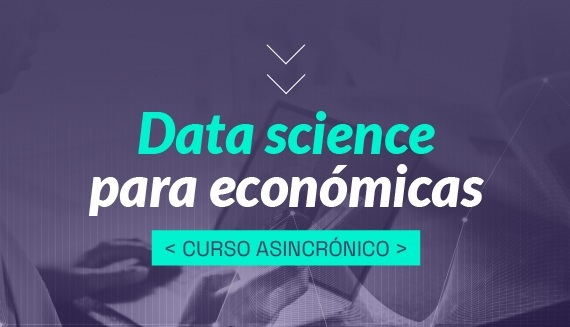
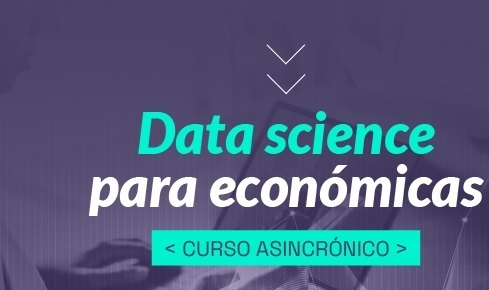
carrusel de promoción y modificacion del home de cada curso

diff --git a/cursos/CursoDatascience.html b/cursos/CursoDatascience.html
@@ -17,10 +17,10 @@
     
     <!-- Navegación -->
     <nav class="navbar navbar-expand-lg navbar-dark bg-dark">
-        <a class="navbar-brand" href="#">Academia CILSA</a>
+        <!-- <a class="navbar-brand" href="#">Academia CILSA</a>
         <button class="navbar-toggler" type="button" data-toggle="collapse" data-target="#navbarNav" aria-controls="navbarNav" aria-expanded="false" aria-label="Toggle navigation">
             <span class="navbar-toggler-icon"></span>
-        </button>
+        </button> -->
         <div class="collapse navbar-collapse" id="navbarNav">
             <ul class="navbar-nav ml-auto">
                 <li class="nav-item active">
@@ -38,7 +38,7 @@
 
             <div class="col-md-8">    
                 <!-- Imagen del curso -->
-                <img src="/imagenes/Datascience.jpg" class="img-fluid" alt="curso de Datascience">
+                <img src="/imagenes/data.png" class="img-fluid" alt="curso de Datascience">
                 
                 <!-- Profesores -->
                 <h3 class="margin-h3">Profesores</h3>

diff --git a/cursos/AnalisisDeDatosEnPowerBI.html b/cursos/AnalisisDeDatosEnPowerBI.html
@@ -17,14 +17,14 @@
     
     <!-- Navegación -->
     <nav class="navbar navbar-expand-lg navbar-dark bg-dark">
-        <a class="navbar-brand" href="#">Academia CILSA</a>
+        <!-- <a class="navbar-brand" href="#">Academia CILSA</a>
         <button class="navbar-toggler" type="button" data-toggle="collapse" data-target="#navbarNav" aria-controls="navbarNav" aria-expanded="false" aria-label="Toggle navigation">
             <span class="navbar-toggler-icon"></span>
-        </button>
+        </button> -->
         <div class="collapse navbar-collapse" id="navbarNav">
             <ul class="navbar-nav ml-auto">
                 <li class="nav-item active">
-                    <a class="nav-link" href="index.html">Home</a>
+                    <a class="nav-link" href="/index.html">Home</a>
                 </li>
             </ul>
         </div>

diff --git a/cursos/CursoAutomatizacionExcelConPython.html b/cursos/CursoAutomatizacionExcelConPython.html
@@ -17,14 +17,14 @@
     
     <!-- Navegación -->
     <nav class="navbar navbar-expand-lg navbar-dark bg-dark">
-        <a class="navbar-brand" href="#">Academia CILSA</a>
+        <!-- <a class="navbar-brand" href="#">Academia CILSA</a>
         <button class="navbar-toggler" type="button" data-toggle="collapse" data-target="#navbarNav" aria-controls="navbarNav" aria-expanded="false" aria-label="Toggle navigation">
             <span class="navbar-toggler-icon"></span>
-        </button>
+        </button> -->
         <div class="collapse navbar-collapse" id="navbarNav">
             <ul class="navbar-nav ml-auto">
                 <li class="nav-item active">
-                    <a class="nav-link" href="index.html">Home</a>
+                    <a class="nav-link" href="/index.html">Home</a>
                 </li>
             </ul>
         </div>

diff --git a/cursos/detalleCursoExcel.html b/cursos/detalleCursoExcel.html
@@ -17,10 +17,10 @@
     
     <!-- Navegación -->
     <nav class="navbar navbar-expand-lg navbar-dark bg-dark">
-        <a class="navbar-brand" href="#">Academia CILSA</a>
-        <button class="navbar-toggler" type="button" data-toggle="collapse" data-target="#navbarNav" aria-controls="navbarNav" aria-expanded="false" aria-label="Toggle navigation">
+        <!-- <a class="navbar-brand" href="#">Academia CILSA</a>
+        <!-- <button class="navbar-toggler" type="button" data-toggle="collapse" data-target="#navbarNav" aria-controls="navbarNav" aria-expanded="false" aria-label="Toggle navigation">
             <span class="navbar-toggler-icon"></span>
-        </button>
+        </button> --> -->
         <div class="collapse navbar-collapse" id="navbarNav">
             <ul class="navbar-nav ml-auto">
                 <li class="nav-item active">

diff --git a/index.html b/index.html
@@ -175,7 +175,7 @@
                 </div>
                 <div class="carousel-item">
                     <div class="card">
-                        <img src="imagenes/Datascience.jpg" class="card-img-top img-fluid" alt="Curso de Datascience" style="height: 800px; object-fit: cover;">
+                        <img src="imagenes/data.png" class="card-img-top img-fluid carrusel-img" alt="Curso de Datascience">
                         <div class="card-body">
                             <h5 class="card-title card-title-sombra">Utilizarás herramientas avanzadas para crear informes interactivos y tomar decisiones basadas en datos efectivos.</h5>
                             <a href="cursos/CursoDatascience.html" class="btn btn-primary w-100">Ver más</a>

diff --git a/cursos/CursoDigitalManageryScrum.html b/cursos/CursoDigitalManageryScrum.html
@@ -17,10 +17,10 @@
     
     <!-- Navegación -->
     <nav class="navbar navbar-expand-lg navbar-dark bg-dark">
-        <a class="navbar-brand" href="#">Academia CILSA</a>
+        <!-- <a class="navbar-brand" href="#">Academia CILSA</a>
         <button class="navbar-toggler" type="button" data-toggle="collapse" data-target="#navbarNav" aria-controls="navbarNav" aria-expanded="false" aria-label="Toggle navigation">
             <span class="navbar-toggler-icon"></span>
-        </button>
+        </button> -->
         <div class="collapse navbar-collapse" id="navbarNav">
             <ul class="navbar-nav ml-auto">
                 <li class="nav-item active">

diff --git a/cursos/CursoInglesBasico.html b/cursos/CursoInglesBasico.html
@@ -16,10 +16,10 @@
     
     <!-- Navegación -->
     <nav class="navbar navbar-expand-lg navbar-dark bg-dark">
-        <a class="navbar-brand" href="#">Academia CILSA</a>
+        <!-- <a class="navbar-brand" href="#">Academia CILSA</a>
         <button class="navbar-toggler" type="button" data-toggle="collapse" data-target="#navbarNav" aria-controls="navbarNav" aria-expanded="false" aria-label="Toggle navigation">
             <span class="navbar-toggler-icon"></span>
-        </button>
+        </button> -->
         <div class="collapse navbar-collapse" id="navbarNav">
             <ul class="navbar-nav ml-auto">
                 <li class="nav-item active">

diff --git a/cursos/CursoMarketingDigital.html b/cursos/CursoMarketingDigital.html
@@ -17,10 +17,10 @@
     
     <!-- Navegación -->
     <nav class="navbar navbar-expand-lg navbar-dark bg-dark">
-        <a class="navbar-brand" href="#">Academia CILSA</a>
+        <!-- <a class="navbar-brand" href="#">Academia CILSA</a>
         <button class="navbar-toggler" type="button" data-toggle="collapse" data-target="#navbarNav" aria-controls="navbarNav" aria-expanded="false" aria-label="Toggle navigation">
             <span class="navbar-toggler-icon"></span>
-        </button>
+        </button> -->
         <div class="collapse navbar-collapse" id="navbarNav">
             <ul class="navbar-nav ml-auto">
                 <li class="nav-item active">

diff --git a/cursos/CursoPortugues.html b/cursos/CursoPortugues.html
@@ -16,10 +16,10 @@
     
     <!-- Navegación -->
     <nav class="navbar navbar-expand-lg navbar-dark bg-dark">
-        <a class="navbar-brand" href="#">Academia CILSA</a>
+        <!-- <a class="navbar-brand" href="#">Academia CILSA</a>
         <button class="navbar-toggler" type="button" data-toggle="collapse" data-target="#navbarNav" aria-controls="navbarNav" aria-expanded="false" aria-label="Toggle navigation">
             <span class="navbar-toggler-icon"></span>
-        </button>
+        </button> -->
         <div class="collapse navbar-collapse" id="navbarNav">
             <ul class="navbar-nav ml-auto">
                 <li class="nav-item active">

diff --git a/cursos/CursoPowerApps.html b/cursos/CursoPowerApps.html
@@ -17,10 +17,10 @@
     
     <!-- Navegación -->
     <nav class="navbar navbar-expand-lg navbar-dark bg-dark">
-        <a class="navbar-brand" href="#">Academia CILSA</a>
+        <!-- <a class="navbar-brand" href="#">Academia CILSA</a>
         <button class="navbar-toggler" type="button" data-toggle="collapse" data-target="#navbarNav" aria-controls="navbarNav" aria-expanded="false" aria-label="Toggle navigation">
             <span class="navbar-toggler-icon"></span>
-        </button>
+        </button> -->
         <div class="collapse navbar-collapse" id="navbarNav">
             <ul class="navbar-nav ml-auto">
                 <li class="nav-item active">

diff --git a/cursos/CursoProgramacionEnR.html b/cursos/CursoProgramacionEnR.html
@@ -17,10 +17,10 @@
     
     <!-- Navegación -->
     <nav class="navbar navbar-expand-lg navbar-dark bg-dark">
-        <a class="navbar-brand" href="#">Academia CILSA</a>
+        <!-- <a class="navbar-brand" href="#">Academia CILSA</a>
         <button class="navbar-toggler" type="button" data-toggle="collapse" data-target="#navbarNav" aria-controls="navbarNav" aria-expanded="false" aria-label="Toggle navigation">
             <span class="navbar-toggler-icon"></span>
-        </button>
+        </button> -->
         <div class="collapse navbar-collapse" id="navbarNav">
             <ul class="navbar-nav ml-auto">
                 <li class="nav-item active">

diff --git a/cursos/CursoPythonParaData.html b/cursos/CursoPythonParaData.html
@@ -17,10 +17,10 @@
     
     <!-- Navegación -->
     <nav class="navbar navbar-expand-lg navbar-dark bg-dark">
-        <a class="navbar-brand" href="#">Academia CILSA</a>
+        <!-- <a class="navbar-brand" href="#">Academia CILSA</a>
         <button class="navbar-toggler" type="button" data-toggle="collapse" data-target="#navbarNav" aria-controls="navbarNav" aria-expanded="false" aria-label="Toggle navigation">
             <span class="navbar-toggler-icon"></span>
-        </button>
+        </button> -->
         <div class="collapse navbar-collapse" id="navbarNav">
             <ul class="navbar-nav ml-auto">
                 <li class="nav-item active">
